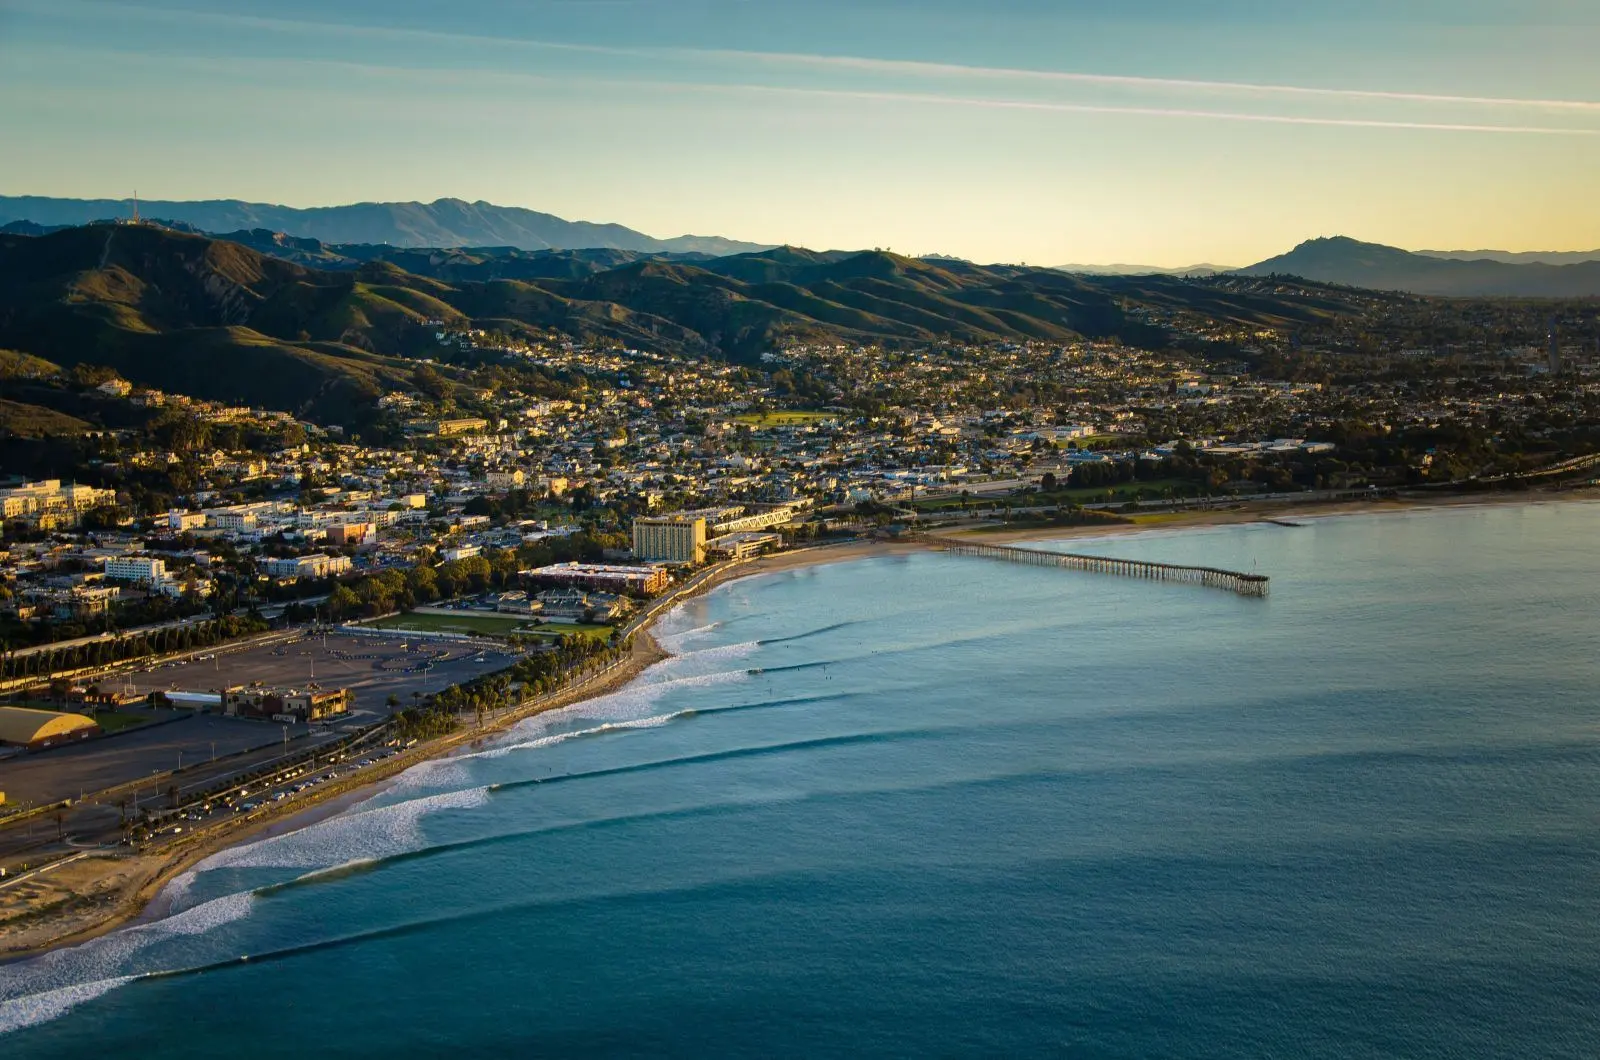
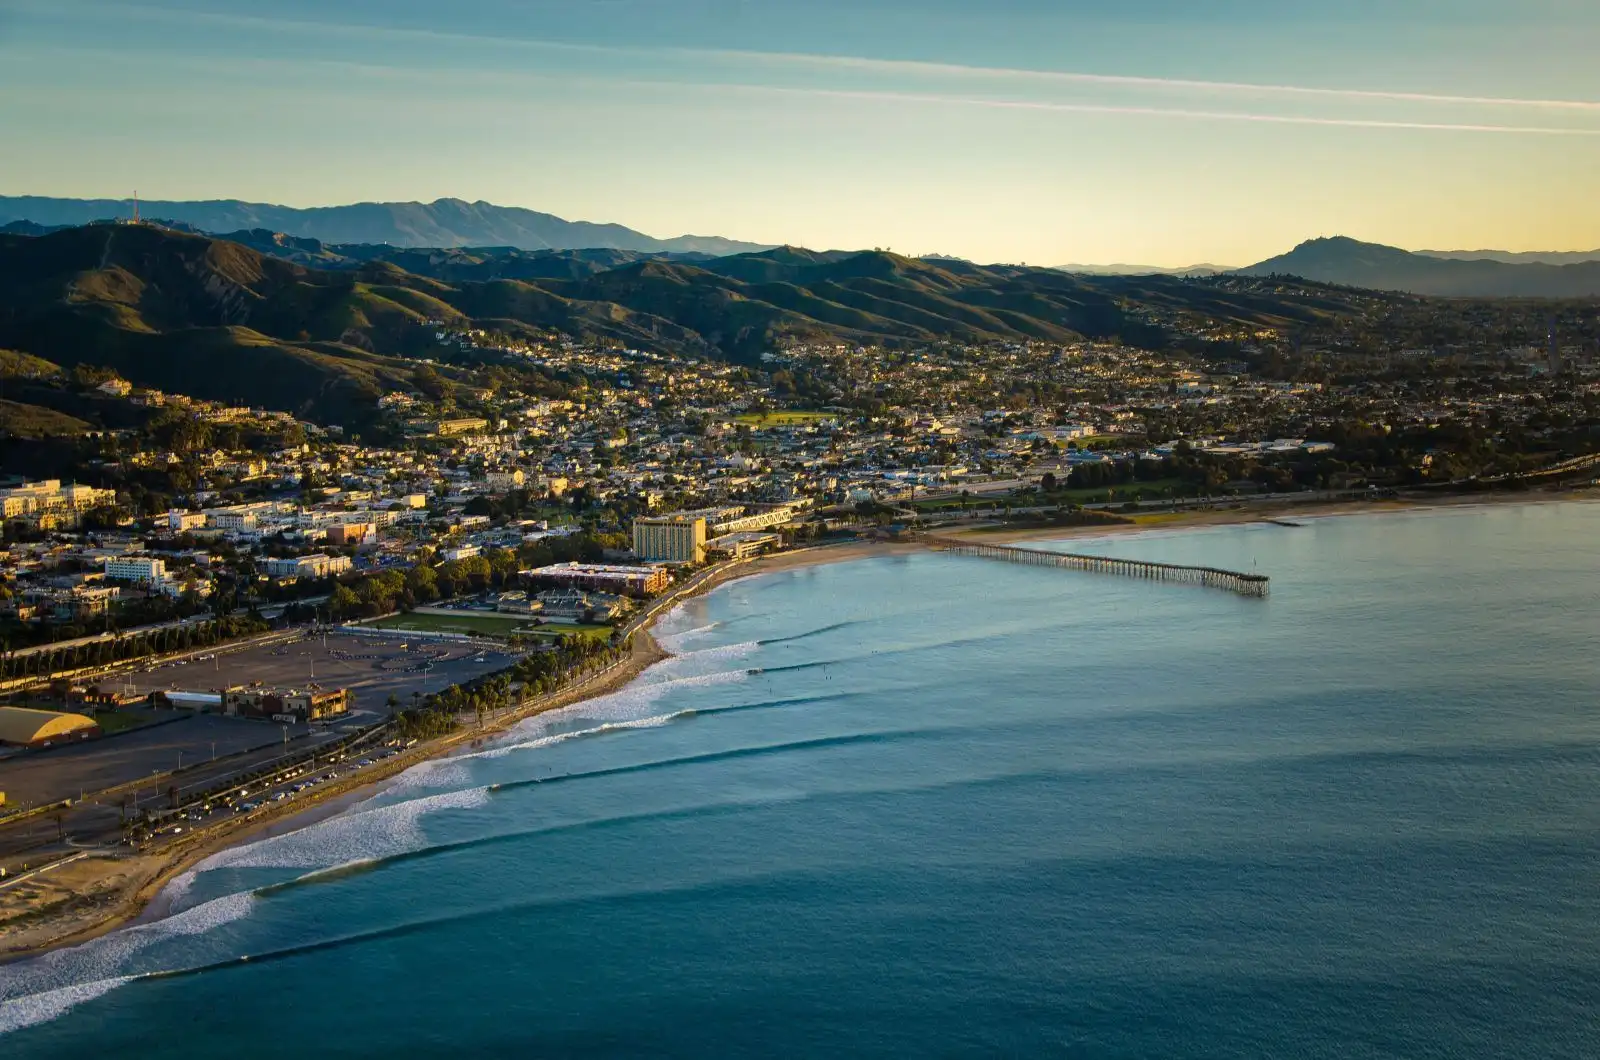
Perf: PSI image-delivery pass + font preload + rAF scroll handler
Mobile PageSpeed follow-ups, taking every win that does not cost
visual quality:

- Hero recompressed from the hero.jpg source: hero-960.webp 76->52KB
  (the LCP image), hero-1600.webp 188->134KB. q52/54 is invisible
  under the dark hero overlay (verified in browser).
- Header logo marks right-sized: new logo-mark-112.png (5KB) and
  logo-mark-white-112.png (4KB) replace the 16KB/13KB full-size PNGs
  in the header on every page. Originals kept: logo-mark.png stays as
  the JSON-LD publisher logo, logo-white.png stays as the press-kit
  download and footer image (its variant came out LARGER - original
  already optimal, as did city-of-ventura.png, both kept).
- Partner logos: chamber 15.9->8.4KB (460px webp, badge attrs fixed
  to real 460x153), credit union 12.6->10.4KB, college 7.8->7.2KB.
  Per-logo format chosen by measuring png-palette vs webp.
- spacemono-400 preload added (it renders the above-the-fold eyebrow
  and was the 1,165ms tail of PSI's critical request chain).
- Sticky-header scroll handler rAF-throttled (PSI forced-reflow, 82ms).
- js cache-bust v40->v41.

Net homepage first-view: roughly 55KB lighter with a 31% smaller LCP
image. Skipped deliberately: full CSS inlining (220ms render-block vs
losing cross-page caching on a 41-page site) and the board-photo
srcset rework (16KB, sizes math already reasonable).

diff --git a/startup-ventura/assets/js/main.js b/startup-ventura/assets/js/main.js
@@ -26,9 +26,16 @@
 	(function header() {
 		var hdr = $('.site-header');
 		if (!hdr) { return; }
+		// rAF-throttled so the classList write happens once per frame instead of
+		// on every scroll event (PSI flagged this handler for forced reflow).
+		var ticking = false;
 		var onScroll = function () {
-			if (window.pageYOffset > 40) { hdr.classList.add('is-scrolled'); }
-			else { hdr.classList.remove('is-scrolled'); }
+			if (ticking) { return; }
+			ticking = true;
+			requestAnimationFrame(function () {
+				hdr.classList.toggle('is-scrolled', window.pageYOffset > 40);
+				ticking = false;
+			});
 		};
 		onScroll();
 		window.addEventListener('scroll', onScroll, { passive: true });
